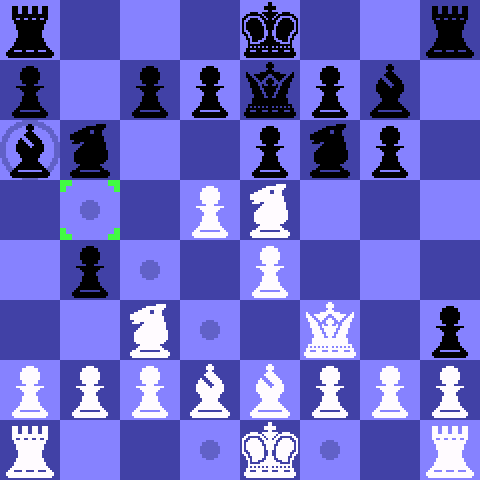
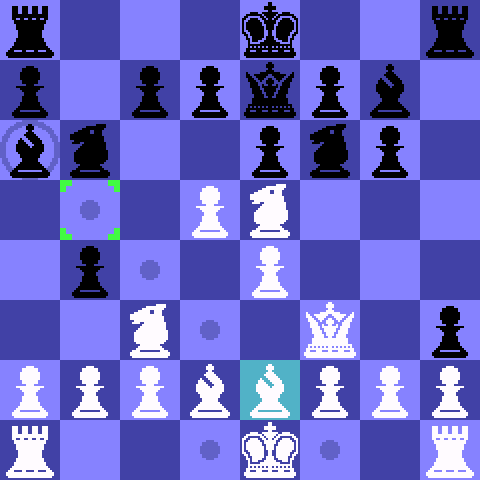
boardui promotion game logic and graphics

Changed region(s): [[0.5, 0.75, 0.625, 0.875]]

diff --git a/README.md b/README.md
@@ -4,7 +4,7 @@ Project to write a chess engine for the TI-84 Plus CE.
 
 As of August 2026, the move generator has been completed and passed perft tests on 125 positions to a depth of 5.
 
-![Board](media/ui_startposition.png)
+![Board](media/ui_selectedpiece.png)
 
 ## Download
 
